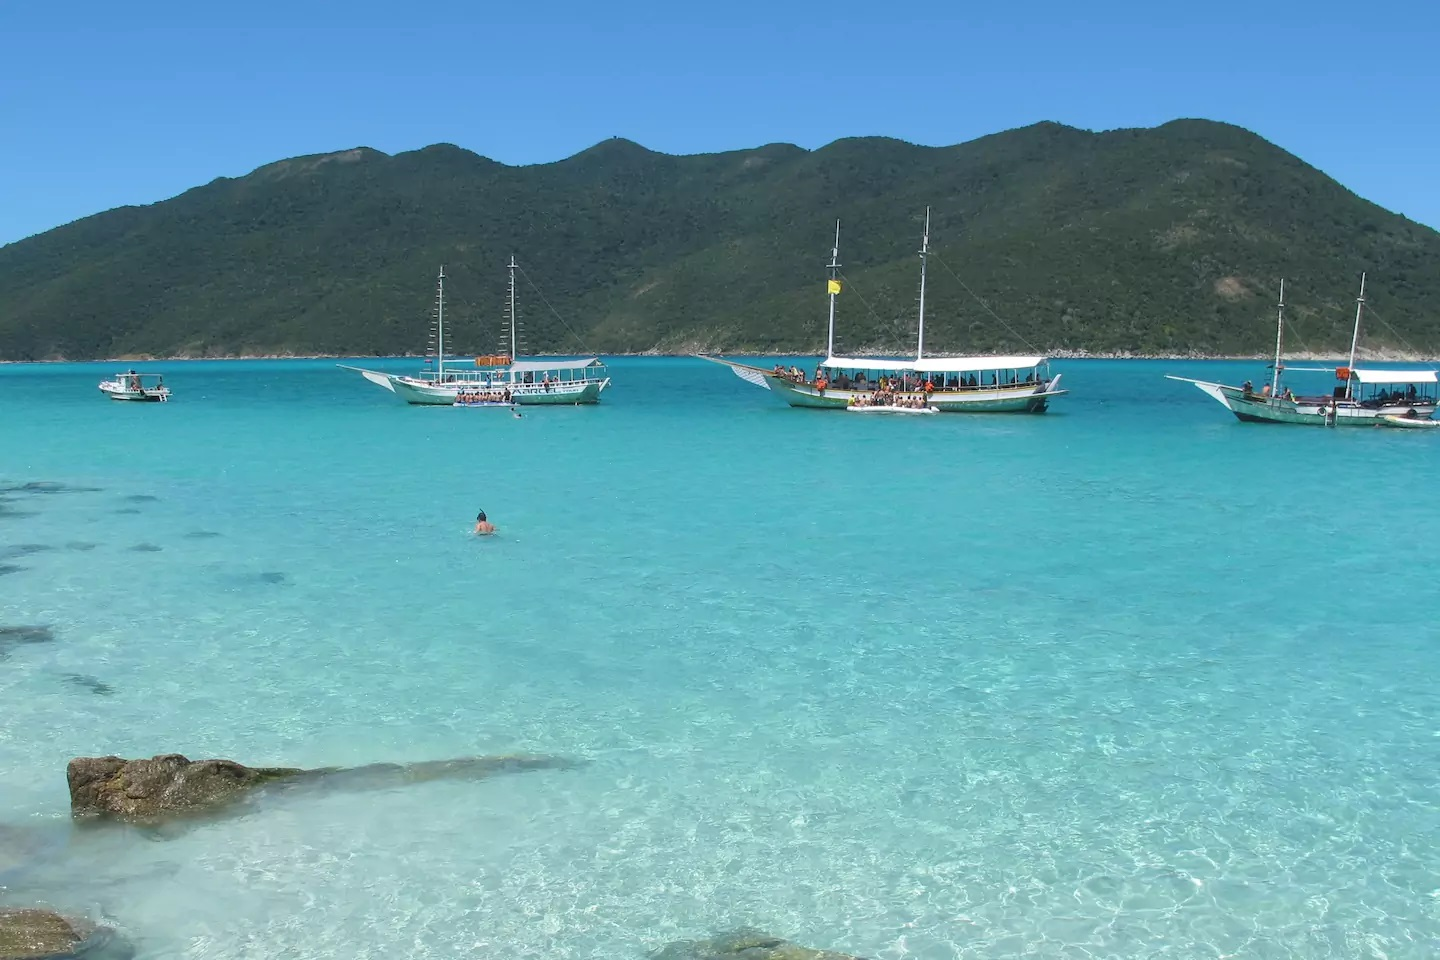
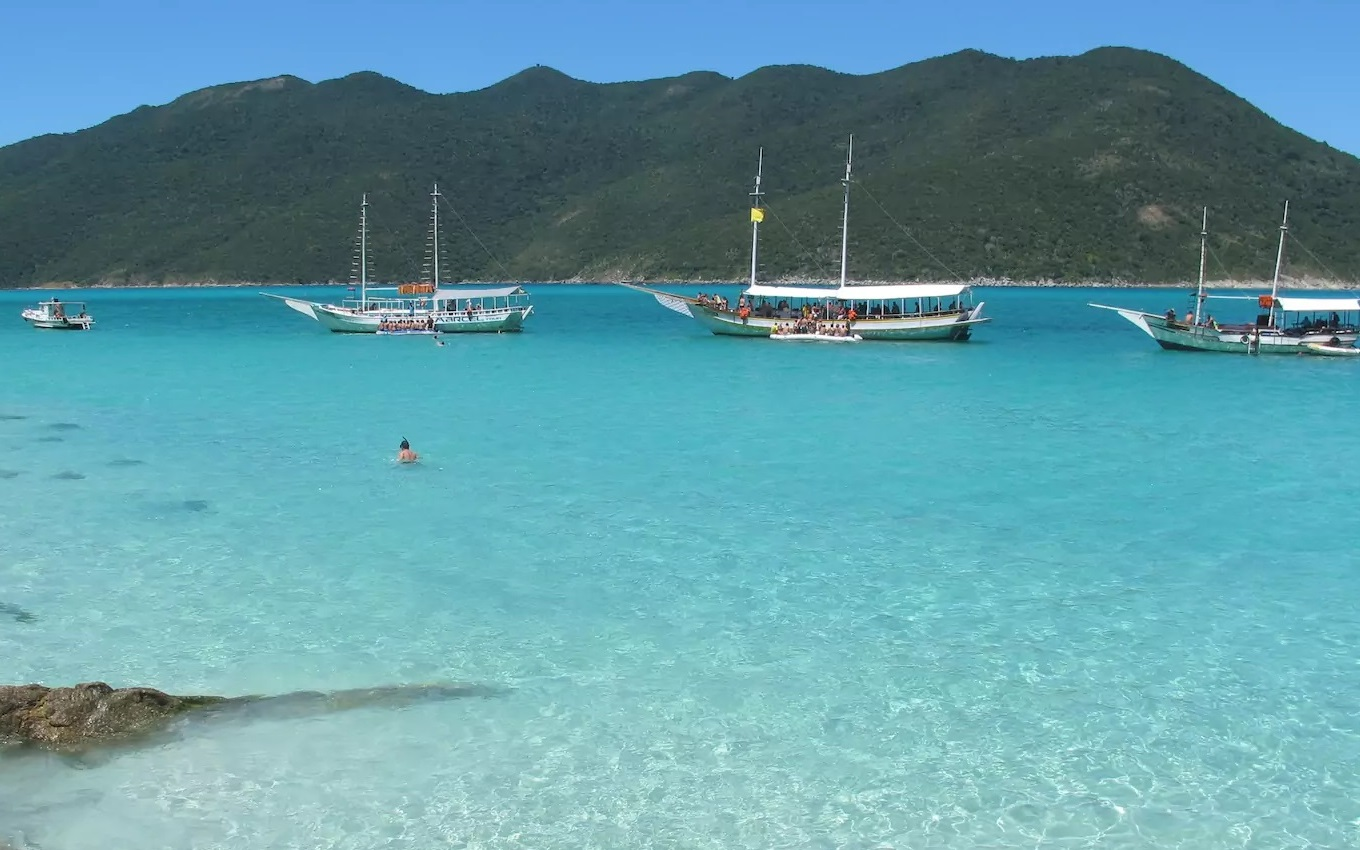
definindo um tamanho padrão para as imagens do slideshow

diff --git a/index.html b/index.html
@@ -100,12 +100,6 @@
                       </div>
                     </div>
                     <div class="carousel-item">
-                      <img class="d-block" src="assets/img/praia6.jpg" alt="Second slide">
-                      <div class="carousel-caption d-none d-md-block">
-                        <h5>Praia do Forno, Arraial do Cabo</h5>
-                      </div>
-                    </div>
-                    <div class="carousel-item">
                       <img class="d-block" src="assets/img/praia12.jpg" alt="Third slide">
                       <div class="carousel-caption d-none d-md-block">
                         <h5>Prainha, Arraial do Cabo</h5>
@@ -115,6 +109,24 @@
                       <img class="d-block" src="assets/img/praia9.jpg" alt="Third slide">
                       <div class="carousel-caption d-none d-md-block">
                         <h5>Praia Grande, Arraial do Cabo</h5>
+                      </div>
+                    </div>
+                    <div class="carousel-item">
+                      <img class="d-block" src="assets/img/area2.jpg" alt="Third slide">
+                      <div class="carousel-caption d-none d-md-block">
+                        <h5>Sacada - Hotel Mira-Sol, Arraial do Cabo</h5>
+                      </div>
+                    </div>
+                    <div class="carousel-item">
+                      <img class="d-block" src="assets/img/sacada2.jpg" alt="Third slide">
+                      <div class="carousel-caption d-none d-md-block">
+                        <h5>Área de Lazer - Hotel Mira-Sol, Arraial do Cabo</h5>
+                      </div>
+                    </div>
+                    <div class="carousel-item">
+                      <img class="d-block" src="assets/img/piscina4.jpg" alt="Third slide">
+                      <div class="carousel-caption d-none d-md-block">
+                        <h5>Piscina - Hotel Mira-Sol, Arraial do Cabo</h5>
                       </div>
                     </div>
                   </div>
